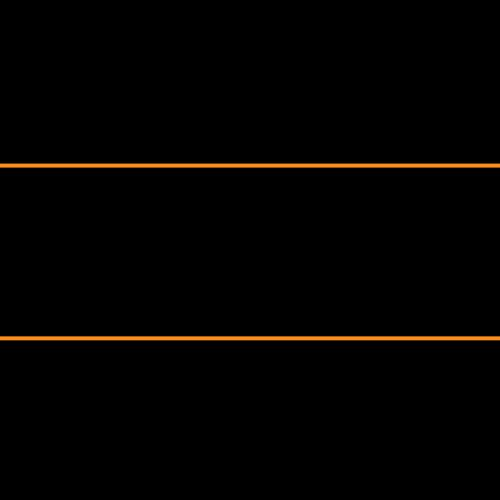
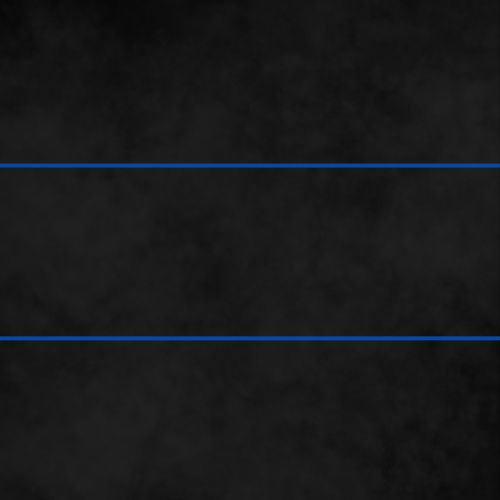
DETAIL :SMILE:

diff --git a/index.html b/index.html
@@ -4,8 +4,8 @@
 <head>
     <meta charset="UTF-8">
     <meta name="viewport" content="width=device-width, initial-scale=1.0">
-    <title> Its comming.. </title>
-    <link rel="shortcut icon" href="./images/upArrow.svg" type="image/x-icon">
+    <title> Taudux </title>
+    <link rel="shortcut icon" href="./images/logo_tau.png" type="image/x-icon">
     <link rel="stylesheet" href="./css/normalize.css">
     <link rel="stylesheet" href="./css/style.css">
 </head>
@@ -14,16 +14,16 @@
     <header class="hero">
         <nav class="scroll-navbar">
             <ul class="scroll-menu">
-                <li class='scroll-menu-li'><a href="#inicio">Inicio</a></li>
+                <li class='scroll-menu-li'><a href="#">Inicio</a></li>
                 <li class='scroll-menu-li'><a href="#about">Acerca de</a></li>
-                <li class='scroll-menu-li'><a href="#contacto">Enfoque</a></li> <!-- Corregido aquí -->
+                <li class='scroll-menu-li'><a href="#Enfoque">Enfoque</a></li> 
                 <li class='scroll-menu-li'><a href="#blog">Team</a></li>
                 <li class='scroll-menu-li'><a href="#Question">Preguntas frecuentes</a></li>
             </ul>
         </nav>
         <nav class="nav container">
             <div class="navLogo">
-                <h2 class="navTitle">logo de pagina</h2>
+                <img src="./images/logo_tau.png" alt="Logo de la página" class="logoImage">
             </div>
             <ul class="navLink navLinkMenu">
                 <li class="navItems">
@@ -48,16 +48,17 @@
             </div>
         </nav>
         <section class="heroContainer container">
-            <h1 class="heroTitle"> aquí va el titulo de la pagina</h1>
-            <p class="heroParagraph"> Llevamos tus ideas al siguiente nivel. Creamos software que no solo funciona, sino
+            <h1 class="heroTitle"> Bienvenido a Taudux </h1>
+            <p class="heroParagraph"> Llevamos tus ideas al siguiente nivel. <br> Creamos software que no solo funciona,
+                sino
                 que sorprende y conecta.</p>
-            <a href="" class="cta"> ¡Creemos algo increíble juntos! </a>
+            <a href="#Question" class="cta"> ¡Creemos algo increíble juntos! </a>
         </section>
     </header>
     <main>
         <section class="container about" id="about">
-            <h2 class="subTitle"> ¿cuál es nuestra pasión? </h2>
-            <p class="aboutParagraph"> En [title it's comming...], somos un equipo apasionado de desarrolladores
+            <h2 class="subTitle"> ¿Cuál es nuestra pasión? </h2>
+            <p class="aboutParagraph"> En Taudux, somos un equipo apasionado de desarrolladores
                 comprometidos a transformar tus ideas en soluciones digitales innovadoras. Con un enfoque en la calidad
                 y la colaboración, trabajamos codo a codo contigo para crear software que no solo cumple, sino que
                 supera tus expectativas. ¡Juntos, construimos el futuro!</p>
@@ -100,9 +101,12 @@
                     <h2 class="subTitle">
                         Nuestro conocimiento
                     </h2>
-                    <p class="knowledgeParagraph"> Lorem ipsum dolor sit amet consectetur adipisicing elit. Debitis
-                        dolorum vero optio quidem saepe nobis eos. Aut, labore beatae quibusdam placeat velit enim error
-                        quos, consequatur, at nam deserunt repellendus?</p>
+                    <p class="knowledgeParagraph"> Combinamos experiencia en desarrollo de software con análisis de
+                        datos avanzados para brindar soluciones completas y personalizadas. Nuestro equipo de
+                        desarrolladores y analistas trabaja en conjunto para transformar datos en decisiones y convertir
+                        ideas en aplicaciones eficaces. Ya sea optimizando procesos, desarrollando aplicaciones
+                        intuitivas o extrayendo insights valiosos, estamos aquí para ayudarte a alcanzar tus objetivos.
+                    </p>
                     <a href="#" class="cta"> contactanos </a>
                 </div>
                 <figure class="knowledgePicture">
@@ -159,10 +163,13 @@
                 <img src="./images/leftArrow.svg" alt="flecha a la izquierda" class="testimonyArrow" id="before">
                 <section class="testimonyBody testimonyBody--Show" data-id="1">
                     <div class="testimonyText">
-                        <h2 class="subTitle"> Mi nombre es luis, <span class="testimonyCourse"> Data science</span></h2>
-                        <p class="testimonyReview"> Lorem ipsum dolor sit amet consectetur, adipisicing elit. Inventore
-                            deleniti, ab quasi vitae officiis deserunt aspernatur minus nesciunt cum ut asperiores ad
-                            dolorum beatae pariatur, cupiditate aut dicta numquam tempora?</p>
+                        <h2 class="subTitleTestimony"> Mi nombre es Luis, <span class="testimonyCourse"> Data science</span></h2>
+                        <p class="testimonyReview"> Soy Licenciado en Física por la UAEH, con experiencia en
+                            investigación científica y especialización en Data Science. He trabajado en inteligencia
+                            artificial y automatización de procesos para mejorar escalabilidad y tiempos de
+                            procesamiento. Me enfoco en proyectos que aprovechen el poder de los datos y tecnología para
+                            la toma de decisiones estratégicas y la optimización empresarial.
+                        </p>
                     </div>
                     <figure class="testimonyPicture">
                         <img class="testimonyImg" src="./images/FOTOGRAFIA 1.jpg" alt="fotografia ing">
@@ -171,10 +178,15 @@
 
                 <section class="testimonyBody" data-id="2">
                     <div class="testimonyText">
-                        <h2 class="subTitle"> Mi nombre es samael, <span class="testimonyCourse"> Data science </span>
+                        <h2 class="subTitleTestimony"> Mi nombre es Samael, <span class="testimonyCourse"> Data science </span>
                         </h2>
-                        <p class="testimonyReview"> Lorem ipsum dolor sit amet consectetur, adipisicing elit. Inventore
-                            deleniti,</p>
+                        <p class="testimonyReview"> Soy ingeniero en Física por la Universidad de Guanajuato y
+                            estudiante de una Maestría en Data Science en Tech España. Con experiencia en física teórica
+                            y óptica no lineal, inicié en programación con C y C++ y luego Python, aplicándolo en
+                            modelos caóticos y sistemas de control. Actualmente, como Ingeniero de Datos, trabajo con
+                            herramientas como Docker, Apache Airflow, y SQL para administrar Data Warehouses y Data
+                            Lakes, y aplico técnicas de machine learning y sistemas de recomendación en ciencia de
+                            datos.</p>
                     </div>
                     <figure class="testimonyPicture">
                         <img class="testimonyImg" src="./images/Samael.jpeg" alt="fotografia ing">
@@ -183,7 +195,7 @@
 
                 <section class="testimonyBody" data-id="3">
                     <div class="testimonyText">
-                        <h2 class="subTitle"> Mi nombre es paul, <span class="testimonyCourse"> developer Full
+                        <h2 class="subTitleTestimony"> Mi nombre es Paul, <span class="testimonyCourse"> developer Full
                                 stack </span></h2>
                         <p class="testimonyReview"> Lorem ipsum dolor sit amet consectetur, adipisicing elit. Inventore
                             deleniti, ab quasi vitae offit cum ut asperiores ad
@@ -196,11 +208,14 @@
 
                 <section class="testimonyBody" data-id="4">
                     <div class="testimonyText">
-                        <h2 class="subTitle"> Mi nombre es pierre, <span class="testimonyCourse"> developer Full
+                        <h2 class="subTitleTestimony"> Mi nombre es Pierre, <span class="testimonyCourse"> developer Full
                                 stack </span></h2>
-                        <p class="testimonyReview">deleniti, ab quasi vitae officiis deserunt aspernatur minus nesciunt
-                            cum ut asperiores ad
-                            dolorum beatae pariatur, cupiditate aut dicta numquam tempora?</p>
+                        <p class="testimonyReview">Soy Comunicólogo y Desarrollador Full Stack con experiencia en más de
+                            40
+                            proyectos usando Ruby on Rails y React. Me destaco por mi resiliencia, enfoque en resultados
+                            y capacidad para trabajar en equipos remotos. He desarrollado proyectos web, participado en
+                            mentorías técnicas y optimizado procesos industriales. Además, cuento con formación
+                            profesional en desarrollo full-stack a través de Microverse.</p>
                     </div>
                     <figure class="testimonyPicture">
                         <img class="testimonyImg" src="./images/Foto pierre.png" alt="fotografia ing">
@@ -211,47 +226,50 @@
             </div>
         </section>
         <section class="questions container" id="Question">
-            <h2 class="subTitle"> Preguntas frecuentes</h2>
+            <h2 class="subTitle"> Preguntas frecuentes </h2>
             <p class="questionParagraph">
-                Lorem ipsum dolor sit amet consectetur adipisicing elit. Nobis rem nesciunt deserunt placeat at
-                excepturi repudiandae corrupti fuga illum sequi.
+                Encuentra aquí las respuestas a las preguntas más comunes sobre nuestros servicios y el valor que
+                aportamos a tu proyecto.
             </p>
             <section class="questionsContainer">
                 <article class="questionsPadding">
                     <div class="questionsAnswer">
-                        <h3 class="questionTitle"> que es (nombre de empresa) <span class="questionsArrow">
+                        <h3 class="questionTitle"> ¿Qué es Taudux <span class="questionsArrow">
                                 <img src="./images/chevronArrow.svg" alt="flecha hacia abajo" class="questionImg">
                             </span></h3>
-                        <p class="questionsShow"> Lorem ipsum dolor sit amet consectetur adipisicing elit. Iure quaerat
-                            doloremque neque assumenda nam voluptatum cupiditate iusto ullam, temporibus saepe.</p>
+                        <p class="questionsShow"> Taudux es una plataforma diseñada para optimizar tus procesos a través
+                            de soluciones de desarrollo y análisis de datos, ayudándote a tomar decisiones informadas y
+                            mejorar tu competitividad.</p>
                     </div>
                 </article>
             </section>
             <section class="questionsContainer">
                 <article class="questionsPadding">
                     <div class="questionsAnswer">
-                        <h3 class="questionTitle"> que es (nombre de empresa) <span class="questionsArrow">
+                        <h3 class="questionTitle"> ¿Qué hacemos? <span class="questionsArrow">
                                 <img src="./images/chevronArrow.svg" alt="flecha hacia abajo" class="questionImg">
                             </span></h3>
-                        <p class="questionsShow"> Lorem ipsum dolor sit amet consectetur adipisicing elit. Iure quaerat
-                            doloremque neque assumenda nam voluptatum cupiditate iusto ullam, temporibus saepe.</p>
+                        <p class="questionsShow"> Desarrollamos aplicaciones a medida y ofrecemos análisis de datos
+                            avanzados para mejorar la eficiencia operativa, apoyar decisiones estratégicas y maximizar
+                            el impacto de los proyectos empresariales.</p>
                     </div>
                 </article>
             </section>
             <section class="questionsContainer">
                 <article class="questionsPadding">
                     <div class="questionsAnswer">
-                        <h3 class="questionTitle"> que es (nombre de empresa) <span class="questionsArrow">
+                        <h3 class="questionTitle"> ¿Quiénes somos? <span class="questionsArrow">
                                 <img src="./images/chevronArrow.svg" alt="flecha hacia abajo" class="questionImg">
                             </span></h3>
-                        <p class="questionsShow"> Lorem ipsum dolor sit amet consectetur adipisicing elit. Iure quaerat
-                            doloremque neque assumenda nam voluptatum cupiditate iusto ullam, temporibus saepe.</p>
+                        <p class="questionsShow"> Somos un equipo de desarrolladores y analistas de datos dedicados a
+                            brindar servicios tecnológicos innovadores, enfocados en transformar datos en valor y ayudar
+                            a las empresas a alcanzar sus objetivos.</p>
                     </div>
                 </article>
             </section>
             <section class="questionOffer">
                 <h2 class="subTitle"> estas listo? </h2>
-                <p class="questionsCopy"> Lorem ipsum dolor sit amet consectetur adipisicing elit. Voluptate, iusto.</p>
+                <p class="questionsCopy"> Conocenos un poco y empecemos a crear cosas juntos </p>
                 <a class="cta" href="#"> click ahora </a>
             </section>
         </section>
@@ -288,11 +306,14 @@
         </section>
         <section class="footerCopy container">
             <div class="footerSocial">
-                <a href="#" class="footerIcons"><img src="./images/instagram.svg" alt="img icon instagram"
+                <a target="_blank" href="https://www.instagram.com/taudux_dev/profilecard/?igsh=MXcyejNidGNnN2Vpdg=="
+                    class="footerIcons"><img src="./images/instagram.svg" alt="img icon instagram"
                         class="footerImg"></a>
-                <a href="#" class="footerIcons"><img src="./images/faceBook.svg" alt="img icon instagram"
+                <a target="_blank" href="https://www.facebook.com/profile.php?id=61567603235399&mibextid=LQQJ4d"
+                    class="footerIcons"><img src="./images/faceBook.svg" alt="img icon instagram" class="footerImg"></a>
+                <a target="_blank" href="#" class="footerIcons"><img src="./images/tikTok.svg" alt="img icon instagram"
                         class="footerImg"></a>
-                <a href="#" class="footerIcons"><img src="./images/tikTok.svg" alt="img icon instagram"
+                <a target="_blank" href="https://www.linkedin.com/company/taudux/" class="footerIcons"><img src="./images/Linkedin.png" alt="img Linkedin"
                         class="footerImg"></a>
             </div>
             <h3 class="footerCopyrigh"> Derechos reservados &copy; Team(nombre de empresa)</h3>

diff --git a/css/style.css b/css/style.css
@@ -2,7 +2,7 @@
 
 :root {
     --padding-container: 100px 0px;
-    --color-title: #001A49;
+    --color-title: #0549a4;
 }
 
 body {
@@ -40,6 +40,11 @@ body {
     clip-path: polygon(0 0, 100% 0, 100% 80%, 50% 100%, 0 80%);
     z-index: -1;
 }
+.logoImage {
+    width: 208px;
+    height: auto;
+    padding: 31px 0px 0px 0px;
+}
 
 /*Barra de navegacion externa*/
 .scroll-navbar {
@@ -68,7 +73,7 @@ body {
 }
 
 .scroll-navbar a:hover {
-    color: #ff5e17; 
+    color: #bd2828; 
 }
 
 .scroll-menu {
@@ -105,7 +110,7 @@ body {
 }
 
 .navLinks:hover {
-    color: #ff5e17;
+    color: #bd2828;
 }
 
 .navTitle {
@@ -172,7 +177,7 @@ body {
 
 .cta {
     display: inline-block;
-    background: linear-gradient(79deg, #ff8d1c, #ff5e17 50%, #ff3414);
+    background: linear-gradient(79deg, #0549a4, #2ca9f1, #0549a4);
     justify-self: center;
     margin: 0px 0px 0px 19px;
     color: #fff;
@@ -195,7 +200,7 @@ body {
 }
 
 .subTitle {
-    color: #ff5e17;
+    color: #0549a4;
     font-size: 2rem;
     margin-bottom: 25px;
 }
@@ -238,7 +243,8 @@ body {
 .knowledge {
     background-color: #e5e5f7;
     opacity: 0.9;
-    background-image: radial-gradient(#ff3414 0.5px, transparent 0.5px), radial-gradient(#ff8d1c 0.5px, #000000 1.5px);
+    background-image: radial-gradient(#0549a4 0.5px, transparent 0.5px), radial-gradient(#2ca9f1 0.5px, #000000 1.5px);
+    /*  background: linear-gradient(79deg, #0549a4, #2ca9f1, #0549a4);*/
     background-size: 20px 20px;
     background-position: 0 0, 10px 10px;
     overflow: hidden;
@@ -330,7 +336,7 @@ body {
     padding: 20px 0;
     border-radius: 10px;
     text-decoration: none;
-    background: linear-gradient(79deg, #ff8d1c, #ff5e17 50%, #ff3414);
+    background: linear-gradient(79deg, #0549a4, #2ca9f1, #0549a4);
     font-weight: 600;
     box-shadow: 0px 0px 1px rgba(0, 0, 0, 0.5);
     color: #fff;
@@ -341,13 +347,18 @@ body {
     padding: 20px 0;
     border-radius: 10px;
     text-decoration: none;
-    background: linear-gradient(79deg, #0f0f0f, #adadad 50%, #0f0f0f);
+    background: linear-gradient(79deg, #bd2828, #6d1414 50%, #bd2828);
     font-weight: 600;
     box-shadow: 0px 0px 1px rgba(0, 0, 0, 0.5);
     color: #fff;
 }
 
 /* team presentacion testimonial*/
+.subTitleTestimony{
+    color: #2ca9f1;
+    font-size: 2rem;
+    margin-bottom: 25px;
+}
 
 .testimony {
     background-color: #000000;
@@ -427,13 +438,13 @@ body {
 .questionsContainer {
     display: grid;
     gap: 2em;
-    padding-top: 50px;
+    padding-top: 20px;
 }
 
 .questionsPadding {
     padding: 0;
     transition: padding .2s;
-    border: 1px solid #5454d4;
+    border: 1px solid #2ca9f1;
     border-radius: 6px;
 }
 
@@ -580,6 +591,12 @@ body {
 
 .footer.img {
     width: 50px;
+}
+
+.footerImg {
+    width: 30px; 
+    height: 30px; 
+    object-fit: cover; 
 }
 
 /* Media queries section */
